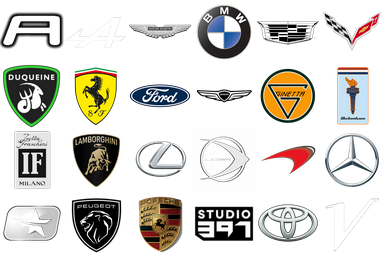
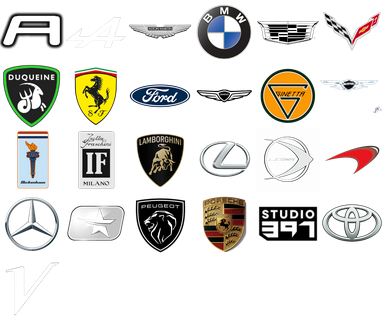
fix: show the Hertz Team JOTA badge in LMU and keep Gantry camera order the same in every locale (#983)

diff --git a/src/frontend/components/shared/CarManufacturer/lmuManufacturerSpritePositions.ts b/src/frontend/components/shared/CarManufacturer/lmuManufacturerSpritePositions.ts
@@ -4,7 +4,7 @@
 // share only some marques, so either can be regenerated without the other.
 
 export const LMU_SPRITES_PER_ROW = 6;
-export const LMU_SPRITES_PER_COLUMN = 4;
+export const LMU_SPRITES_PER_COLUMN = 5;
 
 export const LMU_MANUFACTURER_SPRITE_POSITIONS: Record<
   string,
@@ -22,16 +22,17 @@ export const LMU_MANUFACTURER_SPRITE_POSITIONS: Record<
   genesis: { x: 3, y: 1 },
   ginetta: { x: 4, y: 1 },
   glickenhaus: { x: 5, y: 1 },
-  isottafraschini: { x: 0, y: 2 },
-  lamborghini: { x: 1, y: 2 },
-  lexus: { x: 2, y: 2 },
-  ligier: { x: 3, y: 2 },
-  mclaren: { x: 4, y: 2 },
-  mercedesamg: { x: 5, y: 2 },
-  oreca: { x: 0, y: 3 },
-  peugeot: { x: 1, y: 3 },
-  porsche: { x: 2, y: 3 },
-  studio397: { x: 3, y: 3 },
-  toyota: { x: 4, y: 3 },
-  vanwall: { x: 5, y: 3 },
+  hertzteamjota: { x: 0, y: 2 },
+  isottafraschini: { x: 1, y: 2 },
+  lamborghini: { x: 2, y: 2 },
+  lexus: { x: 3, y: 2 },
+  ligier: { x: 4, y: 2 },
+  mclaren: { x: 5, y: 2 },
+  mercedesamg: { x: 0, y: 3 },
+  oreca: { x: 1, y: 3 },
+  peugeot: { x: 2, y: 3 },
+  porsche: { x: 3, y: 3 },
+  studio397: { x: 4, y: 3 },
+  toyota: { x: 5, y: 3 },
+  vanwall: { x: 0, y: 4 },
 };

diff --git a/src/types/lmu/cars.ts b/src/types/lmu/cars.ts
@@ -52,6 +52,15 @@ export const LMU_MANUFACTURERS: readonly LmuManufacturer[] = [
   },
   { id: 10003, pattern: /\bbmw\b/i, manufacturer: 'bmw', name: 'BMW' },
   {
+    // Before Cadillac: LMU's Hypercar entry is "Hyper_Cadillac Hertz Team
+    // Jota …", and the manufacturer filter treats Hertz Team JOTA as its own
+    // marque rather than the Cadillac chassis badge.
+    id: 10026,
+    pattern: /\bhertz(?:\s+team)?\s*jota\b|\bjota\b/i,
+    manufacturer: 'hertzteamjota',
+    name: 'Hertz Team JOTA',
+  },
+  {
     id: 10004,
     pattern: /\bcadillac\b/i,
     manufacturer: 'cadillac',

diff --git a/src/app/lmu/mapSession.spec.ts b/src/app/lmu/mapSession.spec.ts
@@ -182,6 +182,9 @@ describe('mapLmuSession', () => {
     ['Glickenhaus 007 LMH', 'glickenhaus'],
     ['Vanwall Vandervell 680', 'vanwall'],
     ['Oreca 07 Gibson', 'oreca'],
+    ['Hyper_Cadillac Hertz Team Jota 2025', 'hertzteamjota'],
+    ['Hertz Team Jota', 'hertzteamjota'],
+    ['JOTA 2024', 'hertzteamjota'],
   ])('resolves the LMU-only model %s to %s', (model, manufacturer) => {
     // These had no logo id at all until LMU got a manufacturer sheet of its
     // own: iRacing has none of these marques, so there was no cell to point

diff --git a/src/frontend/components/Settings/sections/GantrySettings.tsx b/src/frontend/components/Settings/sections/GantrySettings.tsx
@@ -179,7 +179,7 @@ const cameraGroupOptions = (
     ...new Set([DEFAULT_INCIDENT_CAMERA_GROUP, selected, ...names]),
   ]
     .filter(Boolean)
-    .sort((a, b) => a.localeCompare(b));
+    .sort((a, b) => a.localeCompare(b, 'en'));
   return unique.map((name) => ({ label: name, value: name }));
 };
 
